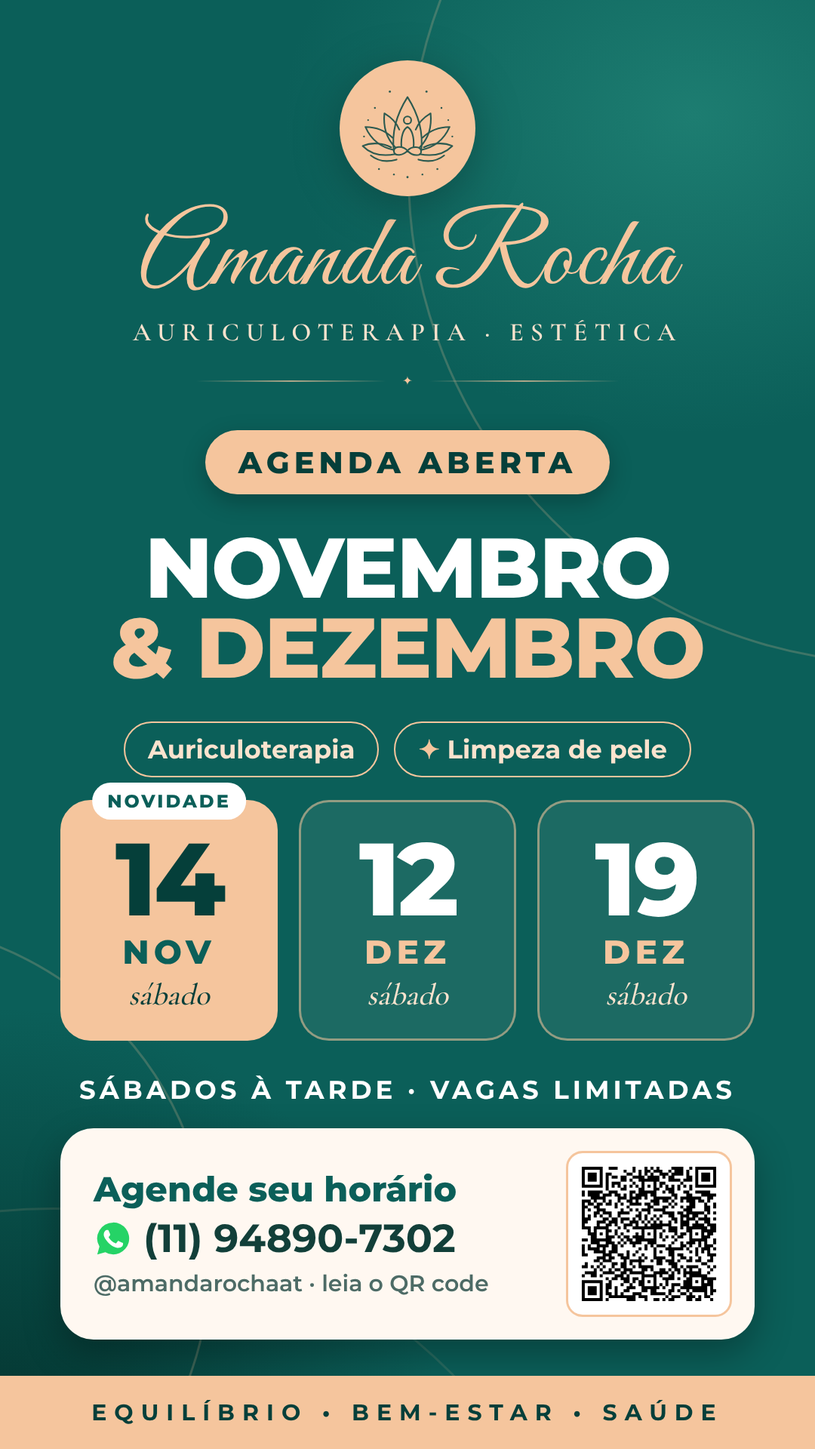
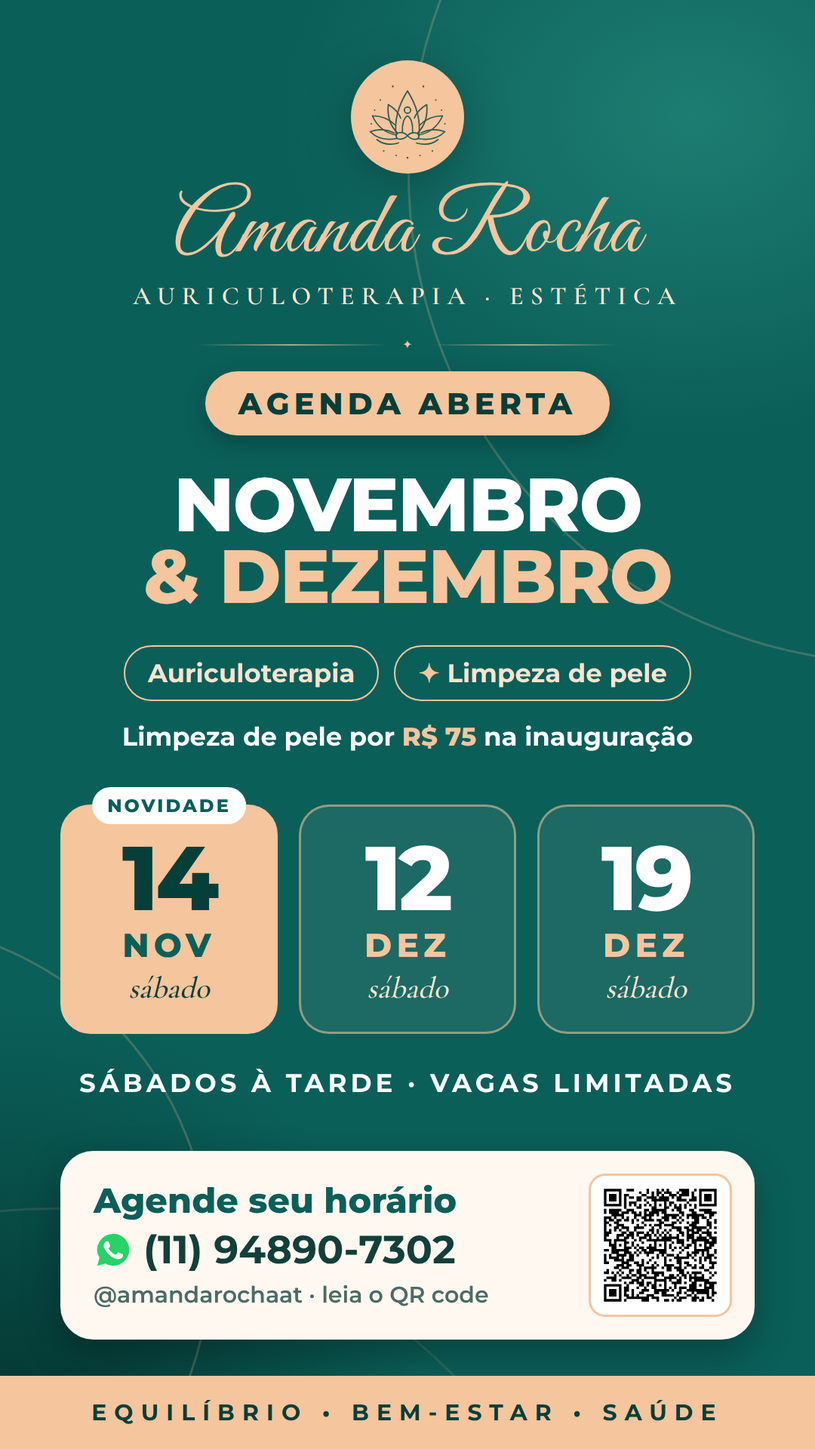
Painel em 4 abas com guia, promoção de inauguração e indicação
- Painel dividido em Início, Agenda, Enviar e Serviços, com barra fixa
  embaixo, guia de boas-vindas e "Como usar esta parte" em cada aba
- Aviso vai para o topo quando uma janela de ações está aberta, para não
  cobrir os botões
- Limpeza de pele por R$ 75 na inauguração e "Indique uma amiga" (1 sessão
  de auriculoterapia) no site, na página de links e nos folders
- Folder de aluguel com "Clientela já formada" e "Vila Nova Mauá"
- Testes cobrindo as abas, o guia e a assinatura acima da barra

Claude-Session: https://claude.ai/code/session_01XzVqx7ahf59UE6agffiRQk

diff --git a/admin/index.html b/admin/index.html
@@ -125,6 +125,34 @@ label.check input{width:22px;height:22px;accent-color:var(--teal)}
 .destinos .chips{margin-bottom:8px}
 .destinos h4{font-size:14px;margin:10px 0 6px}
 .chip[data-destino][aria-pressed=true]{background:var(--teal);color:var(--cream);border-color:var(--teal)}
+/* abas: o painel funciona como um aplicativo de 4 partes */
+.abas{position:fixed;left:0;right:0;bottom:0;z-index:15;display:grid;grid-template-columns:repeat(4,1fr);gap:4px;background:#fff;border-top:1px solid var(--line);padding:6px 8px calc(6px + env(safe-area-inset-bottom));box-shadow:0 -8px 24px rgba(11,95,89,.08)}
+.abas button{position:relative;display:flex;flex-direction:column;align-items:center;justify-content:center;gap:3px;min-height:56px;border:0;border-radius:14px;background:none;font-weight:700;font-size:12px;color:var(--muted)}
+.abas svg{width:24px;height:24px}
+.abas button[aria-current=page]{background:#E9F4F1;color:var(--teal-d)}
+.nb{position:absolute;top:4px;right:calc(50% - 22px);min-width:20px;height:20px;padding:0 6px;border-radius:99px;background:var(--warn);color:#fff;font-style:normal;font-size:12px;font-weight:800;line-height:20px}
+.aba-topo{margin-top:18px}
+.aba-t{margin:0!important;font-size:24px!important}
+.aba-topo p{color:var(--muted);font-size:15px}
+.ajuda{margin:12px 0 4px;background:#fff;border:1px solid var(--line);border-radius:14px}
+.ajuda summary{cursor:pointer;list-style:none;padding:12px 14px;font-weight:700;font-size:15px;color:var(--teal);min-height:48px;display:flex;align-items:center;gap:8px}
+.ajuda summary::-webkit-details-marker{display:none}
+.ajuda summary:before{content:"?";display:grid;place-items:center;width:24px;height:24px;border-radius:50%;background:var(--teal);color:#fff;font-size:14px}
+.ajuda ol{margin:0 14px 14px 32px;display:grid;gap:8px;font-size:15px}
+.boas{margin-top:16px;padding:18px;border-radius:18px;background:linear-gradient(135deg,var(--teal),var(--teal-d));color:var(--cream)}
+.boas b{font-size:19px;color:var(--peach)}
+.boas p{margin-top:8px;font-size:15px}
+.boas ul{margin:8px 0 0 18px;font-size:15px;display:grid;gap:4px}
+.boas ul b{font-size:15px;color:var(--peach-l)}
+.boas .btn.ghost{background:transparent;color:var(--cream);border-color:rgba(255,248,241,.4)}
+.boas .btn.main{background:var(--peach);color:var(--teal-d)}
+.atalhos{display:grid;gap:10px;margin-top:22px}
+#bMostrarAbrir{margin-top:14px}
+.card-t{font-size:17px;font-weight:800;color:var(--teal-d);margin-bottom:2px}
+#cardAbrir{margin-top:14px}
+.toast{bottom:calc(84px + env(safe-area-inset-bottom))}
+/* com uma janela de baixo aberta, o aviso vai para o topo e não cobre os botões dela */
+.sheet:not([hidden])~.toast{top:calc(12px + env(safe-area-inset-top));bottom:auto}
 [hidden]{display:none!important}
 @media (prefers-reduced-motion:no-preference){.sheet{animation:sobe .18s ease-out}.toast{animation:sobe .18s ease-out}@keyframes sobe{from{transform:translateY(24px);opacity:0}}}
 </style>
@@ -153,34 +181,32 @@ label.check input{width:22px;height:22px;accent-color:var(--teal)}
     <div class="banner" id="bancoVelho" role="alert" hidden>Falta atualizar o banco para usar serviços, remarcar e lembretes. Rode o arquivo de atualização no Supabase (passo no README).</div>
     <div class="banner" id="semNet" role="alert" hidden>Sem conexão. O que você vê pode estar desatualizado. Não confirme nada até a internet voltar.</div>
 
+    <section class="aba" data-aba="inicio">
+    <div class="boas" id="boasVindas" hidden>
+      <b>Bem-vinda, Amanda!</b>
+      <p>O painel tem 4 partes, nos botões aqui embaixo:</p>
+      <ul><li><b>Início:</b> o que precisa de você hoje</li><li><b>Agenda:</b> seus dias e horários</li><li><b>Enviar:</b> mandar horários para uma cliente</li><li><b>Serviços:</b> o que aparece no site</li></ul>
+      <p>Para começar, abra seus horários na Agenda.</p>
+      <div class="row"><button class="btn main" type="button" data-ir="agenda" data-abrir-form data-guia-ok>Abrir meus horários</button><button class="btn ghost" type="button" data-guia-ok>Já entendi</button></div>
+    </div>
+    <div class="aba-topo"><h2 class="aba-t">Início</h2><p>O que precisa de você agora.</p></div>
+    <details class="ajuda"><summary>Como usar esta parte</summary><ol><li>Quando uma cliente pede um horário pelo site, ele aparece em <b>Pedidos</b>. Toque em <b>Confirmar</b>.</li><li>Logo depois, toque em <b>Avisar no WhatsApp</b>: a mensagem já vai pronta.</li><li>Um dia antes do atendimento, toque em <b>Mandar lembrete</b>.</li></ol></details>
     <h2>Pedidos para responder <span class="badge" id="nPed" hidden></span></h2>
     <div id="pedidos"><p class="vazio">Carregando…</p></div>
 
     <h2>Próximos atendimentos</h2>
-    <p class="dica" style="margin:-6px 0 10px">Confirmados nos próximos 7 dias. Toque em “Mandar lembrete” um dia antes.</p>
+    <p class="dica" style="margin:-6px 0 10px">Confirmados nos próximos 7 dias. Um dia antes, toque em “Mandar lembrete”.</p>
     <div id="proximos"></div>
 
-    <h2>Enviar horários para uma cliente</h2>
-    <div class="card" id="envCard">
-      <p class="dica">Escolha os dias. Depois escolha como enviar: <b>link</b> (ela agenda sozinha) ou <b>imagem</b> (ela só olha e responde).</p>
-      <label for="envNome">Nome da cliente (opcional)</label>
-      <input type="text" id="envNome" maxlength="60" autocomplete="off" placeholder="Ex.: Dona Maria">
-      <label for="envTel">WhatsApp da cliente (opcional)</label>
-      <input type="tel" id="envTel" inputmode="tel" autocomplete="off" placeholder="(11) 90000-0000">
-      <p class="dica">Com o número, o WhatsApp já abre direto na conversa dela.</p>
-      <label for="envServ">Serviço (opcional)</label>
-      <select id="envServ"><option value="">Qualquer um</option></select>
-      <span class="label" id="lEnvDias">Quais dias?</span>
-      <div class="chips" id="envDias" role="group" aria-labelledby="lEnvDias"></div>
-      <div class="previa" id="envPrevia" aria-live="polite">Carregando…</div>
-      <div class="env-bt">
-        <button class="btn zap dupla" id="bLink" type="button" disabled><span>Enviar link</span><small>ela escolhe e agenda sozinha</small></button>
-        <button class="btn main dupla" id="bImg" type="button" disabled><span>Enviar imagem</span><small>ela vê os horários e responde</small></button>
-      </div>
-    </div>
+    <div class="atalhos"><button class="btn ghost" type="button" data-ir="agenda" data-abrir-form>Abrir novos horários</button><button class="btn ghost" type="button" data-ir="enviar">Enviar horários para uma cliente</button></div>
+    </section>
 
-    <h2>Abrir horários</h2>
-    <div class="card">
+    <section class="aba" data-aba="agenda" hidden>
+    <div class="aba-topo"><h2 class="aba-t">Agenda</h2><p>Seus dias e horários.</p></div>
+    <details class="ajuda"><summary>Como usar esta parte</summary><ol><li>Toque em <b>Abrir novos horários</b>, escolha o dia e os horários e confirme.</li><li>Toque em qualquer horário da lista para <b>marcar uma cliente, mudar, remarcar ou apagar</b>.</li><li>Em <b>Opções do dia</b> você adiciona um horário avulso ou limpa os horários livres do dia.</li></ol></details>
+    <button class="btn main" type="button" id="bMostrarAbrir">Abrir novos horários</button>
+    <div class="card" id="cardAbrir" hidden>
+      <h3 class="card-t">Abrir novos horários</h3>
       <label for="novaData">Dia</label>
       <input type="date" id="novaData">
       <span class="label" id="lHoras">Horários (toque para escolher)</span>
@@ -202,11 +228,44 @@ label.check input{width:22px;height:22px;accent-color:var(--teal)}
     <div class="legenda"><span><i style="background:var(--livre)"></i>livre</span><span><i style="background:var(--warn)"></i>pedido</span><span><i style="background:var(--ok)"></i>confirmado</span></div>
     <div id="agenda"></div>
 
-    <h2>Serviços</h2>
-    <p class="dica" style="margin:-6px 0 10px">O que aparece no site para a cliente escolher.</p>
+    </section>
+
+    <section class="aba" data-aba="enviar" hidden>
+    <div class="aba-topo"><h2 class="aba-t">Enviar horários</h2><p>Para uma cliente que pediu dias específicos.</p></div>
+    <details class="ajuda"><summary>Como usar esta parte</summary><ol><li>Escolha os dias que servem para ela.</li><li>Toque em <b>Enviar link</b>: ela escolhe e marca sozinha pelo site.</li><li>Ou toque em <b>Enviar imagem</b>, para quem prefere só olhar e responder.</li></ol></details>
+    <div class="card" id="envCard">
+      <p class="dica">Escolha os dias. Depois escolha como enviar: <b>link</b> (ela agenda sozinha) ou <b>imagem</b> (ela só olha e responde).</p>
+      <label for="envNome">Nome da cliente (opcional)</label>
+      <input type="text" id="envNome" maxlength="60" autocomplete="off" placeholder="Ex.: Dona Maria">
+      <label for="envTel">WhatsApp da cliente (opcional)</label>
+      <input type="tel" id="envTel" inputmode="tel" autocomplete="off" placeholder="(11) 90000-0000">
+      <p class="dica">Com o número, o WhatsApp já abre direto na conversa dela.</p>
+      <label for="envServ">Serviço (opcional)</label>
+      <select id="envServ"><option value="">Qualquer um</option></select>
+      <span class="label" id="lEnvDias">Quais dias?</span>
+      <div class="chips" id="envDias" role="group" aria-labelledby="lEnvDias"></div>
+      <div class="previa" id="envPrevia" aria-live="polite">Carregando…</div>
+      <div class="env-bt">
+        <button class="btn zap dupla" id="bLink" type="button" disabled><span>Enviar link</span><small>ela escolhe e agenda sozinha</small></button>
+        <button class="btn main dupla" id="bImg" type="button" disabled><span>Enviar imagem</span><small>ela vê os horários e responde</small></button>
+      </div>
+    </div>
+
+    </section>
+
+    <section class="aba" data-aba="servicos" hidden>
+    <div class="aba-topo"><h2 class="aba-t">Serviços</h2><p>O que aparece no site para a cliente escolher.</p></div>
+    <details class="ajuda"><summary>Como usar esta parte</summary><ol><li>Toque em <b>Editar</b> para mudar o nome, a descrição ou o preço.</li><li>Desmarque <b>Aparece no site</b> para esconder um serviço que você não está oferecendo.</li><li><b>Adicionar serviço</b> cria um novo. Ele aparece no site na hora.</li></ol></details>
     <div id="servicos"></div>
     <button class="btn ghost" id="bNovoServ" type="button">Adicionar serviço</button>
+    </section>
   </div>
+  <nav class="abas" aria-label="Partes do painel">
+    <button type="button" data-aba-btn="inicio" aria-current="page"><svg viewBox="0 0 24 24" fill="none" stroke="currentColor" stroke-width="2" stroke-linecap="round" stroke-linejoin="round"><path d="M3 11l9-7 9 7v9a1 1 0 0 1-1 1h-5v-6h-6v6H4a1 1 0 0 1-1-1z"/></svg>Início<i class="nb" id="nPedNav" hidden></i></button>
+    <button type="button" data-aba-btn="agenda"><svg viewBox="0 0 24 24" fill="none" stroke="currentColor" stroke-width="2" stroke-linecap="round"><rect x="3" y="5" width="18" height="16" rx="3"/><path d="M3 10h18M8 3v4M16 3v4"/></svg>Agenda</button>
+    <button type="button" data-aba-btn="enviar"><svg viewBox="0 0 24 24" fill="none" stroke="currentColor" stroke-width="2" stroke-linecap="round" stroke-linejoin="round"><path d="M22 2L11 13M22 2l-7 20-4-9-9-4z"/></svg>Enviar</button>
+    <button type="button" data-aba-btn="servicos"><svg viewBox="0 0 24 24" fill="none" stroke="currentColor" stroke-width="2" stroke-linecap="round" stroke-linejoin="round"><path d="M20.6 13.4L13.4 20.6a2 2 0 0 1-2.8 0L3 13V3h10l7.6 7.6a2 2 0 0 1 0 2.8z"/><circle cx="7.5" cy="7.5" r="1.5"/></svg>Serviços</button>
+  </nav>
 </section>
 
 <footer class="credito">Desenvolvido por Kevin Laet</footer>
@@ -335,6 +394,24 @@ label.check input{width:22px;height:22px;accent-color:var(--teal)}
   };
   $('bSair').onclick=function(){salvar(null);rows=[];mostrar()};
 
+  // ---------- abas ----------
+  function irAba(n){
+    [].forEach.call(document.querySelectorAll('[data-aba]'),function(x){x.hidden=x.getAttribute('data-aba')!==n});
+    [].forEach.call(document.querySelectorAll('[data-aba-btn]'),function(b){b.setAttribute('aria-current',b.getAttribute('data-aba-btn')===n?'page':'false')});
+    try{sessionStorage.setItem('amanda-aba',n)}catch(e){}
+    window.scrollTo(0,0);
+  }
+  function mostrarAbrir(sim,parado){$('cardAbrir').hidden=!sim;$('bMostrarAbrir').textContent=sim?'Fechar':'Abrir novos horários';$('bMostrarAbrir').className='btn '+(sim?'ghost':'main');if(sim&&!parado)$('cardAbrir').scrollIntoView({block:'start'})}
+  $('bMostrarAbrir').onclick=function(){mostrarAbrir($('cardAbrir').hidden)};
+  document.addEventListener('click',function(e){
+    var g=e.target.closest('[data-guia-ok]');if(g){$('boasVindas').hidden=true;try{localStorage.setItem('amanda-guia','1')}catch(x){}}
+    var b=e.target.closest('[data-aba-btn],[data-ir]');if(!b)return;
+    irAba(b.getAttribute('data-aba-btn')||b.getAttribute('data-ir'));
+    if(b.hasAttribute('data-abrir-form'))mostrarAbrir(true);
+  });
+  (function(){var vista=null;try{vista=localStorage.getItem('amanda-guia')}catch(e){}$('boasVindas').hidden=!!vista;
+    var a=null;try{a=sessionStorage.getItem('amanda-aba')}catch(e){}if(a&&document.querySelector('[data-aba="'+a+'"]'))irAba(a)})();
+
   // ---------- carregar ----------
   function carregar(){
     return api('POST','rpc/agora_sp',{})
@@ -356,7 +433,7 @@ label.check input{width:22px;height:22px;accent-color:var(--teal)}
     var x=ultimo||agoraSP();
     $('atualizado').textContent='Atualizado às '+dd(x.getUTCHours())+':'+dd(x.getUTCMinutes());
     var ped=rows.filter(function(r){return r.status==='pedido'});
-    var n=$('nPed');n.hidden=!ped.length;n.textContent=ped.length;document.title=(ped.length?'('+ped.length+') ':'')+'Agenda da Amanda';
+    var n=$('nPed');n.hidden=!ped.length;n.textContent=ped.length;$('nPedNav').hidden=!ped.length;$('nPedNav').textContent=ped.length;document.title=(ped.length?'('+ped.length+') ':'')+'Agenda da Amanda';
     $('pedidos').innerHTML=ped.length?ped.map(function(r){
       var min=r.pedido_em?(Date.now()-new Date(r.pedido_em).getTime())/60000:0,z=zapUrl(r,'falar');
       return '<div class="card ped"><div class="nome">'+esc(r.nome)+'</div>'+
@@ -373,7 +450,8 @@ label.check input{width:22px;height:22px;accent-color:var(--teal)}
       return '<div class="dia"><h3><span>'+dia(d)+'</span><button class="dia-op" type="button" data-acao="dia" data-dia="'+d+'">Opções do dia</button></h3><div class="resumo">'+resumo+'</div><div class="chips">'+por[d].map(function(r){
         var rot=r.status==='livre'?'livre':esc(primeiro(r.nome));
         return '<button class="s '+r.status+(passou(r)?' velho':'')+'" data-abrir="'+esc(r.id)+'" type="button" aria-label="'+esc(hh(r.hora)+', '+(r.status==='livre'?'livre':r.status+' para '+r.nome))+'">'+hh(r.hora)+'<small>'+(passou(r)?'passou':rot)+'</small></button>'}).join('')+'</div></div>'}).join(''):
-      '<p class="vazio">Nenhum horário aberto. Use “Abrir horários” acima.</p>';
+      '<p class="vazio">Nenhum horário aberto ainda. Toque em “Abrir novos horários” acima.</p>';
+    if(!rows.length&&$('cardAbrir').hidden)mostrarAbrir(true,true);
     var ate=somaDias(hojeSP(),7),prox=rows.filter(function(r){return r.status==='confirmado'&&!passou(r)&&r.data<=ate});
     $('proximos').innerHTML=prox.length?prox.map(function(r){var z=zapUrl(r,'lembrar');
       return '<div class="card prox"><div class="pl"><b>'+esc(r.nome)+'</b><span>'+esc(servRot(r))+'</span><span class="quando">'+dia(r.data)+' às '+hh(r.hora)+'</span>'+
@@ -548,7 +626,7 @@ label.check input{width:22px;height:22px;accent-color:var(--teal)}
   function desenharEnvio(){
     opcoesEnvio();
     var ds=diasLivres(),vivo={};ds.forEach(function(d){vivo[d.data]=1});Object.keys(envSel).forEach(function(k){if(!vivo[k])delete envSel[k]});
-    $('envDias').innerHTML=ds.length?ds.map(function(d){return '<button class="chip dd" type="button" data-env="'+d.data+'" aria-pressed="'+(!!envSel[d.data])+'"><b>'+esc(curto(d.data))+'</b><small>'+d.horas.length+(d.horas.length>1?' horários':' horário')+'</small></button>'}).join(''):'<p class="vazio">Nenhum horário livre para enviar. Abra horários logo abaixo.</p>';
+    $('envDias').innerHTML=ds.length?ds.map(function(d){return '<button class="chip dd" type="button" data-env="'+d.data+'" aria-pressed="'+(!!envSel[d.data])+'"><b>'+esc(curto(d.data))+'</b><small>'+d.horas.length+(d.horas.length>1?' horários':' horário')+'</small></button>'}).join(''):'<p class="vazio">Nenhum horário livre para enviar. Abra horários na parte Agenda.</p>';
     var sel=selecionados(),el=$('envPrevia');
     el.innerHTML=sel.length?sel.map(function(d){return '<b>'+esc(cap(dataLonga(d.data)))+'</b><br>'+d.horas.map(hh).join(' · ')}).join('<br><br>'):(ds.length?'Toque nos dias que você quer oferecer.':'Sem horários livres no momento.');
     $('bLink').disabled=$('bImg').disabled=!sel.length;
@@ -697,7 +775,7 @@ label.check input{width:22px;height:22px;accent-color:var(--teal)}
     var h='<div><span class="estado livre">Serviço</span><div class="t" id="envT">'+(x?esc(x.nome):'Novo serviço')+'</div></div>';
     if(perguntar)h+='<div class="pergunta">Remover o serviço '+esc(x.nome)+'? Ele some do site. Os horários já marcados com ele continuam.</div><button class="btn bad-solid" data-acao="serv-remover" data-serv="'+esc(x.id)+'" type="button">Sim, remover</button><button class="btn ghost" data-acao="serv-editar" data-serv="'+esc(x.id)+'" type="button">Voltar</button>';
     else h+='<label for="sNome">Nome</label><input type="text" id="sNome" maxlength="40" value="'+esc(x?x.nome:'')+'" placeholder="Ex.: Massagem relaxante">'+
-      '<label for="sDet">Descrição curta (opcional)</label><input type="text" id="sDet" maxlength="60" value="'+esc(x&&x.detalhe||'')+'" placeholder="Ex.: Alívio de tensão e estresse">'+
+      '<label for="sDet">Descrição curta (opcional)</label><input type="text" id="sDet" maxlength="60" value="'+esc(x&&x.detalhe||'')+'" placeholder="Ex.: R$ 75 na inauguração">'+
       '<label class="check"><input type="checkbox" id="sAtivo"'+(!x||x.ativo?' checked':'')+'> Aparece no site</label>'+
       '<label class="check"><input type="checkbox" id="sNov"'+(x&&x.novidade?' checked':'')+'> Mostrar o selo “Novidade”</label>'+
       '<label for="sDesde">Pode ser marcado a partir de (opcional)</label><input type="date" id="sDesde" value="'+esc(x&&x.desde||'')+'">'+

diff --git a/folders/folder.html b/folders/folder.html
@@ -100,6 +100,49 @@ body.feed .kicker{letter-spacing:4px}
 body:not(.feed) [data-v="aluguel"] .item{padding:22px 40px}
 body:not(.feed) [data-v="aluguel"] .item svg{width:100px;height:100px}
 body:not(.feed) [data-v="aluguel"] .qr{width:190px;height:190px}
+.preco{display:flex;flex-direction:column;align-items:center;gap:2px;padding:22px 64px 26px;border:3px solid var(--peach);border-radius:40px;background:rgba(245,197,157,.1)}
+.preco span{font-weight:800;font-size:30px;letter-spacing:5px;color:var(--peach)}
+.preco b{font-weight:800;font-size:150px;line-height:.95;color:#fff;letter-spacing:-4px}
+.preco b small{font-size:.4em;letter-spacing:0;margin-right:10px;color:var(--peach)}
+.indique{width:100%;display:flex;align-items:center;gap:26px;text-align:left;background:var(--peach);color:var(--teal-d);border-radius:32px;padding:24px 32px}
+.indique svg{width:84px;height:84px;flex:none}
+.indique b{display:block;font-weight:800;font-size:40px;line-height:1.1}
+.indique span{display:block;font-weight:600;font-size:30px;line-height:1.25;margin-top:6px}
+.selos{display:flex;flex-wrap:wrap;gap:16px;justify-content:center}
+.selos span{display:inline-flex;align-items:center;gap:12px;border:2.5px solid var(--peach);color:#fff;font-weight:700;font-size:34px;padding:14px 28px;border-radius:999px}
+.selos svg{width:34px;height:34px}
+.promo{font-weight:700;font-size:34px;color:#fff}.promo b{color:var(--peach)}
+body.feed .preco{padding:14px 48px 18px;border-radius:30px}
+body.feed .preco span{font-size:22px}
+body.feed .preco b{font-size:104px}
+body.feed .indique{padding:16px 24px;border-radius:24px;gap:18px}
+body.feed .indique svg{width:60px;height:60px}
+body.feed .indique b{font-size:30px}
+body.feed .indique span{font-size:23px}
+body.feed .selos span{font-size:25px;padding:9px 20px}
+body.feed .selos svg{width:26px;height:26px}
+body.feed .promo{font-size:26px}
+body.feed [data-v="novidade"] .huge{font-size:92px}
+.page>*:not(.spacer){flex-shrink:0}
+/* ajustes de espaço depois de entrar preço, indicação, clientela e região */
+body:not(.feed) [data-v=novidade] .logo,body:not(.feed) [data-v=agenda] .logo{width:150px;height:150px}
+body:not(.feed) [data-v=novidade] .name,body:not(.feed) [data-v=agenda] .name{font-size:118px}
+body:not(.feed) [data-v=novidade] .huge{font-size:118px}
+body:not(.feed) [data-v=novidade] .preco b{font-size:126px}
+body:not(.feed) .qr{width:190px;height:190px}
+body:not(.feed) [data-v=agenda] .huge{font-size:100px!important}
+body:not(.feed) [data-v=agenda] .card .d{font-size:120px}
+body:not(.feed) [data-v=aluguel] .item{padding:16px 36px!important}
+body:not(.feed) [data-v=aluguel] .item svg{width:84px!important;height:84px!important}
+body:not(.feed) [data-v=aluguel] .name{font-size:112px!important}
+body.feed [data-v=novidade] .huge{font-size:84px}
+body.feed [data-v=novidade] .preco b{font-size:92px}
+body.feed [data-v=agenda] .huge{font-size:76px!important}
+body.feed [data-v=agenda] .card{padding:20px 8px 16px}
+body.feed [data-v=agenda] .card .d{font-size:84px}
+body.feed [data-v=agenda] .logo,body.feed [data-v=novidade] .logo{width:90px;height:90px}
+body.feed [data-v=aluguel] .item{padding:12px 26px}
+body.feed [data-v=aluguel] .huge{font-size:76px!important}
 [hidden]{display:none!important}
 </style>
 </head>
@@ -112,17 +155,20 @@ body:not(.feed) [data-v="aluguel"] .qr{width:190px;height:190px}
   <div class="name">Amanda Rocha</div>
   <div class="role">Auriculoterapia · Estética</div>
   <div class="sep">✦</div>
-  <div class="gap-l"></div>
+  <div class="gap-s"></div>
   <span class="pill">NOVIDADE NO SALÃO</span>
   <div class="gap-m"></div>
   <h1 class="huge">Limpeza<br><em>de pele</em></h1>
-  <div class="gap-s"></div>
-  <p class="lead">Sua pele limpa, renovada<br>e cuidada com carinho.</p>
   <div class="spacer"></div>
-  <div class="kicker">Primeiro dia</div>
-  <div class="date">14<small>/11</small></div>
-  <div class="kicker" style="color:#fff">Sábado · vagas limitadas</div>
+  <div class="preco"><span>VALOR DE INAUGURAÇÃO</span><b><small>R$</small>75</b></div>
+  <div class="gap-m"></div>
+  <div class="kicker" style="color:#fff">A partir de 14/11 · Vagas limitadas</div>
   <div class="spacer"></div>
+  <div class="indique">
+    <svg viewBox="0 0 64 64" fill="none" stroke="#053F3A" stroke-width="3" stroke-linecap="round" stroke-linejoin="round"><rect x="8" y="24" width="48" height="32" rx="4"/><path d="M4 16h56v8H4zM32 16v40"/><path d="M32 16c-4-10-16-10-14-2s14 2 14 2zM32 16c4-10 16-10 14-2s-14 2-14 2z"/></svg>
+    <div><b>Indique uma amiga</b><span>Ela fechou um procedimento? Você ganha 1 sessão de auriculoterapia.</span></div>
+  </div>
+  <div class="gap-m"></div>
   <div class="cta">
     <div style="flex:1">
       <div class="t1">Garanta seu horário</div>
@@ -140,12 +186,14 @@ body:not(.feed) [data-v="aluguel"] .qr{width:190px;height:190px}
   <div class="name">Amanda Rocha</div>
   <div class="role">Auriculoterapia · Estética</div>
   <div class="sep">✦</div>
-  <div class="gap-l"></div>
+  <div class="gap-s"></div>
   <span class="pill">AGENDA ABERTA</span>
   <div class="gap-m"></div>
   <h1 class="huge" style="font-size:112px">Novembro<br><em>&amp; Dezembro</em></h1>
   <div class="gap-m"></div>
   <div class="svc"><span>Auriculoterapia</span><span><b>✦</b> Limpeza de pele</span></div>
+  <div class="gap-s"></div>
+  <p class="promo">Limpeza de pele por <b>R$ 75</b> na inauguração</p>
   <div class="spacer"></div>
   <div class="cards">
     <div class="card hl"><span class="tag">NOVIDADE</span><div class="d">14</div><div class="m">NOV</div><div class="w">sábado</div></div>
@@ -176,6 +224,11 @@ body:not(.feed) [data-v="aluguel"] .qr{width:190px;height:190px}
   <div class="sep">✦</div>
   <div class="gap-l hide-feed"></div>
   <h1 class="huge" style="font-size:92px;letter-spacing:-1px">Alugue sua<br><em>cadeira ou maca</em></h1>
+  <div class="gap-m"></div>
+  <div class="selos">
+    <span><svg viewBox="0 0 24 24" fill="none" stroke="#F5C59D" stroke-width="2.4" stroke-linecap="round" stroke-linejoin="round"><circle cx="9" cy="8" r="4"/><path d="M2 21c1-4 4-6 7-6s6 2 7 6"/><path d="M16 4a4 4 0 0 1 0 8M22 21c-.5-2.5-2-4.3-4-5.3"/></svg>Clientela já formada</span>
+    <span><svg viewBox="0 0 24 24" fill="none" stroke="#F5C59D" stroke-width="2.4" stroke-linecap="round" stroke-linejoin="round"><path d="M12 22s-7-6.2-7-12a7 7 0 0 1 14 0c0 5.8-7 12-7 12z"/><circle cx="12" cy="10" r="2.6"/></svg>Vila Nova Mauá</span>
+  </div>
   <div class="spacer"></div>
   <div class="items">
     <div class="item">

diff --git a/index.html b/index.html
@@ -13,7 +13,7 @@
 <meta property="og:site_name" content="Amanda Rocha">
 <meta property="og:url" content="https://kevinlaet.github.io/AMANDA-ROCHA-AT/">
 <meta property="og:title" content="Amanda Rocha · Auriculoterapia e Estética">
-<meta property="og:description" content="Novidade: limpeza de pele a partir de 14/11. Agende seu horário pelo WhatsApp.">
+<meta property="og:description" content="Novidade: limpeza de pele a partir de 14/11 por R$ 75, valor de inauguração. Agende pelo WhatsApp.">
 <meta property="og:image" content="https://kevinlaet.github.io/AMANDA-ROCHA-AT/img/og.jpg">
 <meta property="og:image:width" content="1200">
 <meta property="og:image:height" content="630">
@@ -182,6 +182,14 @@ input[type=text]:focus,input[type=tel]:focus{border-color:var(--teal);box-shadow
 .svc a.ir{display:inline-flex;align-items:center;gap:8px;margin-top:18px;font-weight:800;font-size:15px;color:var(--teal);text-decoration:none;min-height:44px}
 .svc a.ir:after{content:"→";font-family:var(--f-mono)}
 
+.preco-svc{display:inline-flex;align-items:baseline;gap:10px;margin-top:14px;padding:8px 14px;border-radius:14px;background:#E9F4F1;border:1px solid #B9DCD5}
+.preco-svc span{font-family:var(--f-mono);font-weight:700;font-size:11px;letter-spacing:.12em;text-transform:uppercase;color:var(--teal)}
+.preco-svc b{font-weight:800;font-size:22px;color:var(--teal-d)}
+.indique{display:flex;gap:16px;align-items:center;margin-top:16px;padding:20px;border-radius:22px;background:linear-gradient(135deg,#FBD3AF,var(--peach));color:var(--teal-d)}
+.indique .ic{flex:none;width:50px;height:50px;background:var(--teal-d);color:var(--peach);box-shadow:none}
+.indique b{display:block;font-size:18px}
+.indique span{display:block;font-size:15px;margin-top:2px}
+@media (min-width:760px){.indique{max-width:640px;margin-left:auto;margin-right:auto}}
 /* como cuido */
 .care{display:grid;gap:12px}
 .care>div{display:flex;gap:16px;align-items:flex-start;background:#fff;border-radius:22px;padding:18px;border:1px solid var(--line)}
@@ -274,7 +282,7 @@ footer .links a{display:inline-flex;align-items:center;min-height:46px;padding:0
         <a class="btn btn-glass" href="https://instagram.com/amandarochaat"><svg viewBox="0 0 24 24" fill="none" stroke="currentColor" stroke-width="2"><rect x="3" y="3" width="18" height="18" rx="5"/><circle cx="12" cy="12" r="4"/><circle cx="17.5" cy="6.5" r="1" fill="currentColor"/></svg>Instagram</a>
       </div>
     </div>
-    <a class="novo" href="#agendar"><span class="pill">NOVIDADE</span><span><b>Limpeza de pele</b> no salão a partir de <b>14/11</b>. Vagas limitadas.</span><span class="seta" aria-hidden="true">→</span></a>
+    <a class="novo" href="#agendar"><span class="pill">NOVIDADE</span><span><b>Limpeza de pele</b> a partir de <b>14/11</b> por <b>R$ 75</b>, valor de inauguração.</span><span class="seta" aria-hidden="true">→</span></a>
     <div class="chips"><span>Enfermeira</span><span>Saúde mental</span><span>Atendimento individual</span></div>
   </div>
 </header>
@@ -342,9 +350,14 @@ footer .links a{display:inline-flex;align-items:center;min-height:46px;padding:0
         <div class="ic"><svg viewBox="0 0 40 40" fill="none" stroke="currentColor" stroke-width="2.2" stroke-linecap="round"><path d="M20 5c-7 0-12 6-12 14 0 9 6 16 12 16s12-7 12-16c0-8-5-14-12-14z"/><path d="M15 19h.01M25 19h.01M16 27c2 1.5 6 1.5 8 0"/></svg></div>
         <h3>Limpeza de pele</h3>
         <p>Remove impurezas, cravos e células mortas. A pele fica mais limpa, leve e com viço. Um momento de relaxamento só seu.</p>
+        <div class="preco-svc"><span>Valor de inauguração</span><b>R$ 75</b></div>
         <ul><li>Cravos</li><li>Oleosidade</li><li>Pele renovada</li></ul>
         <a class="ir" href="#agendar">Agendar limpeza de pele</a>
       </article>
+    </div>
+    <div class="indique rv">
+      <span class="ic"><svg viewBox="0 0 24 24" fill="none" stroke="currentColor" stroke-width="2" stroke-linecap="round" stroke-linejoin="round"><rect x="3" y="9" width="18" height="12" rx="2"/><path d="M2 6h20v3H2zM12 6v15"/><path d="M12 6c-1.5-3.5-6-3.5-5.3-.7S12 6 12 6zM12 6c1.5-3.5 6-3.5 5.3-.7S12 6 12 6z"/></svg></span>
+      <p><b>Indique uma amiga</b><span>Se ela fechar um procedimento, você ganha <strong>1 sessão de auriculoterapia</strong>. É só ela dizer que foi indicação sua.</span></p>
     </div>
   </div>
 </section>
@@ -385,6 +398,7 @@ footer .links a{display:inline-flex;align-items:center;min-height:46px;padding:0
     <details class="rv"><summary>Como ela funciona?</summary><p>A orelha tem pontos ligados ao corpo todo. Estimulando esses pontos, ajudamos o corpo a se equilibrar. É a mesma ideia da acupuntura, só que na orelha.</p></details>
     <details class="rv"><summary>Quando vou sentir diferença?</summary><p>Cada pessoa é de um jeito. Muitas clientes sentem diferença no sono e na ansiedade nas primeiras semanas. O melhor resultado vem com constância. A auriculoterapia complementa, mas não substitui, o acompanhamento médico.</p></details>
     <details class="rv"><summary>Quanto tempo dura o atendimento?</summary><p>Mais ou menos 1 hora. Na primeira vez a gente conversa um pouco mais para eu te conhecer.</p></details>
+    <details class="rv"><summary>Como funciona a indicação?</summary><p>Indique uma amiga. Se ela fechar qualquer procedimento comigo, você ganha 1 sessão de auriculoterapia. Ela só precisa dizer que foi indicação sua.</p></details>
     <details class="rv"><summary>Como faço para agendar?</summary><p>Escolha o serviço, o dia e o horário lá em cima e toque em “Confirmar pelo WhatsApp”. Se preferir, é só me chamar no (11) 94890-7302.</p></details>
   </div>
 </section>

diff --git a/links/index.html b/links/index.html
@@ -76,7 +76,7 @@ a.l.nov:after{content:none}
   <nav>
     <a class="l main" href="../#agendar"><svg viewBox="0 0 24 24" fill="none" stroke="currentColor" stroke-width="2.2" stroke-linecap="round"><rect x="3" y="5" width="18" height="16" rx="3"/><path d="M3 10h18M8 3v4M16 3v4"/></svg><span>Agendar meu horário<small>Escolha o dia e a hora</small></span></a>
     <a class="l" href="https://wa.me/5511948907302?text=Ol%C3%A1%20Amanda!%20Vim%20pelo%20Instagram."><svg viewBox="0 0 32 32"><path fill="#25D366" d="M16 3a13 13 0 0 0-11.2 19.6L3 29l6.6-1.7A13 13 0 1 0 16 3z"/><path fill="#fff" d="M23.2 19.4c-.4-.2-2.3-1.1-2.6-1.3-.4-.1-.6-.2-.9.2l-1.2 1.5c-.2.3-.4.3-.8.1a10.6 10.6 0 0 1-5.3-4.6c-.4-.7.4-.6 1.1-2.1.1-.3 0-.5 0-.7l-1.2-2.8c-.3-.7-.6-.6-.9-.6h-.7c-.3 0-.7.1-1 .5-.4.4-1.4 1.3-1.4 3.2s1.4 3.7 1.6 4c.2.2 2.7 4.2 6.6 5.9 2.5 1 3.4 1.1 4.7.9.8-.1 2.3-.9 2.6-1.9.3-.9.3-1.7.2-1.9-.1-.2-.4-.3-.8-.4z"/></svg><span>Falar no WhatsApp<small>(11) 94890-7302</small></span></a>
-    <a class="l nov" href="../#servicos"><svg viewBox="0 0 24 24" fill="none" stroke="#F5C59D" stroke-width="2" stroke-linecap="round"><path d="M12 3l2.5 5.5L20 9l-4 4 1 6-5-3-5 3 1-6-4-4 5.5-.5z"/></svg><span>Limpeza de pele<small>A partir de 14/11</small></span><b class="pill">NOVIDADE</b></a>
+    <a class="l nov" href="../#servicos"><svg viewBox="0 0 24 24" fill="none" stroke="#F5C59D" stroke-width="2" stroke-linecap="round"><path d="M12 3l2.5 5.5L20 9l-4 4 1 6-5-3-5 3 1-6-4-4 5.5-.5z"/></svg><span>Limpeza de pele<small>R$ 75 na inauguração · a partir de 14/11</small></span><b class="pill">NOVIDADE</b></a>
     <a class="l" href="../#servicos"><svg viewBox="0 0 24 24" fill="none" stroke="#F5C59D" stroke-width="2" stroke-linecap="round"><path d="M8 18c-2-2-3-4-3-7a7 7 0 0 1 14 0c0 3-2.500 4.500-4 6.500S13.500 21 11 21c-1.500 0-2.500-1-3-3z"/><path d="M9 11a3 3 0 0 1 6 0c0 2-2 2.500-2 4"/></svg><span>Auriculoterapia<small>Ansiedade, sono e bem-estar</small></span></a>
     <a class="l" href="../#sobre"><svg viewBox="0 0 24 24" fill="none" stroke="#F5C59D" stroke-width="2" stroke-linecap="round"><circle cx="12" cy="8" r="4"/><path d="M4 21c1-4 4-6 8-6s7 2 8 6"/></svg><span>Conheça a Amanda<small>Enfermeira e auriculoterapeuta</small></span></a>
   </nav>

diff --git a/agenda.js b/agenda.js
@@ -20,7 +20,7 @@ window.AGENDA = {
   servicos: [
     { id: "auriculo", nome: "Auriculoterapia", detalhe: "Ansiedade, sono e bem-estar" },
     // "desde": primeiro dia em que o serviço pode ser marcado
-    { id: "limpeza", nome: "Limpeza de pele", detalhe: "Novidade no salão", novidade: true, desde: "2026-11-14" }
+    { id: "limpeza", nome: "Limpeza de pele", detalhe: "R$ 75 na inauguração", novidade: true, desde: "2026-11-14" }
   ],
 
   dias: [
